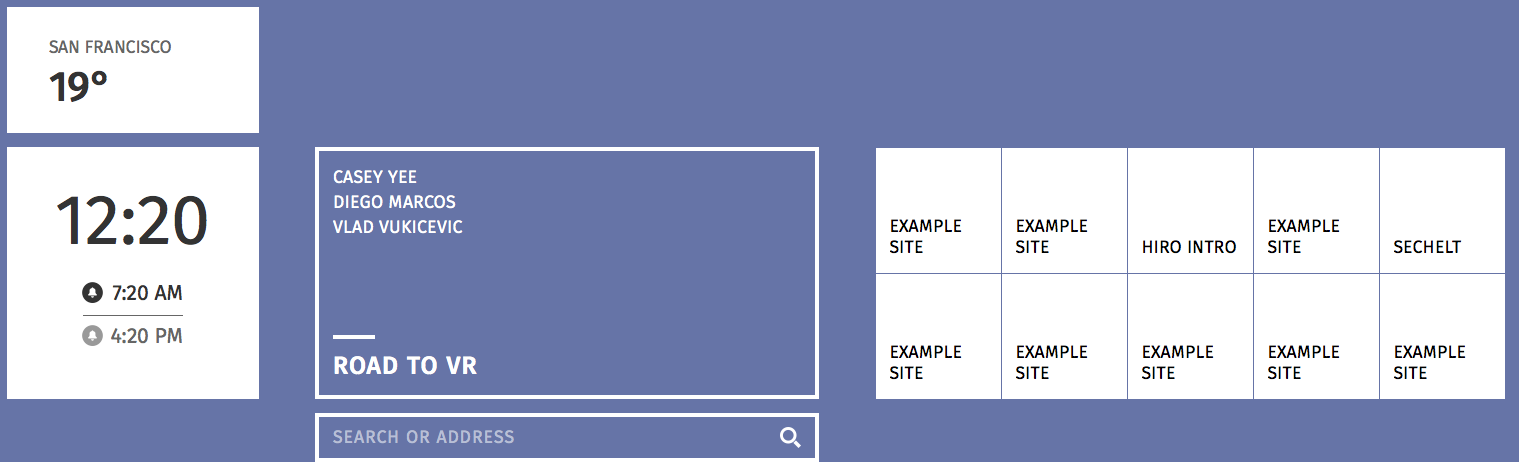
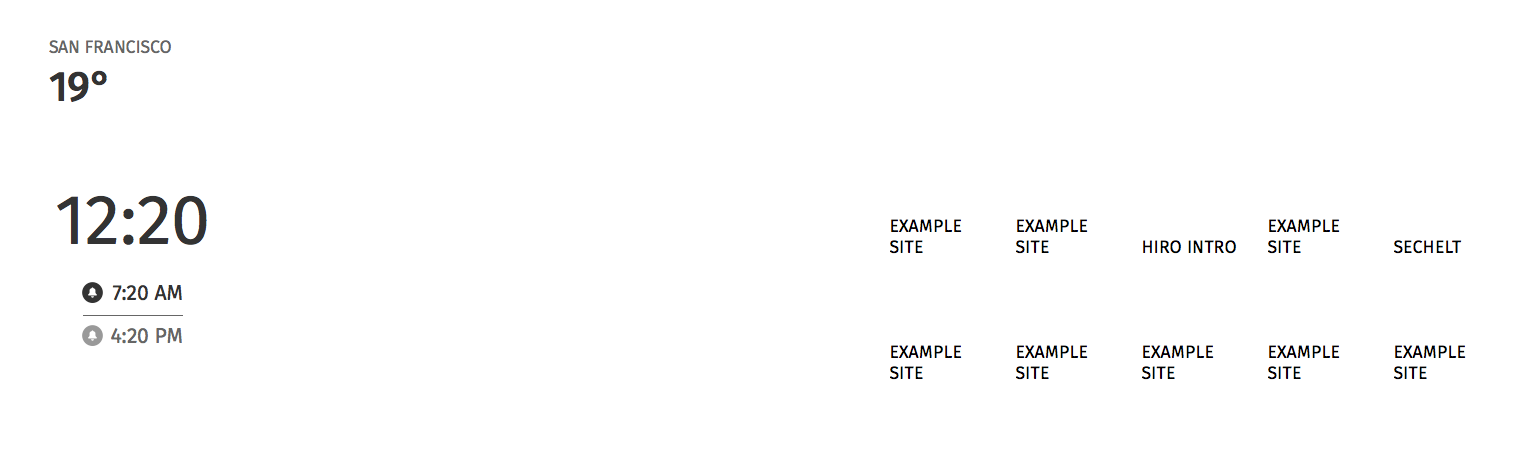
added imagemagick to process alpha

diff --git a/gulpfile.js b/gulpfile.js
@@ -57,8 +57,12 @@ gulp.task('copy', function() {
   	.pipe(gulp.dest(path.base+'build'));
 })
 
-gulp.task('renderd2t',  shell.task([
+gulp.task('slimer',  shell.task([
 	'./renderer/slimerjs-0.9.3/slimerjs ./renderer/script.js '+renderFrom+' '+renderOutTo
+]));
+
+gulp.task('imagemagick', shell.task([
+  './renderer/makealpha.sh'
 ]));
 
 gulp.task('connect', function() {
@@ -69,9 +73,17 @@ gulp.task('connect', function() {
 });
 
 gulp.task('render', function() {
-  gulp.run('connect', 'renderd2t');
-  // give some time to let the renderer do its work before exiting task.
-  setTimeout(function() { process.exit(0) },3000);
+  gulp.run('connect', 'slimer');
+
+  // give some time to let slimer do its work, then run imagemagick
+  setTimeout(function() { 
+    gulp.run('imagemagick') 
+  },2000);
+
+  // give imagemagick some time before quitting.
+  setTimeout(function() { 
+    process.exit(0) 
+  },5000);
 });
 
 gulp.task('default', function() {

diff --git a/renderer/script.js b/renderer/script.js
@@ -41,8 +41,21 @@ page.open(url, function(status) {
 
     fs.write(writePath+'/index.json',JSON.stringify(properties));
     console.log('d23 saved '+writePath+'/index.json');
-    page.render(writePath+'/index.png');
-    console.log('d23 saved '+writePath+'/index.png');
+
+    // write blue component image
+    page.evaluate(function() {
+      document.body.style.background = '#0000FF';      
+    });
+    page.render(writePath+'/index-0000ff.png');
+    console.log('d23 saved '+writePath+'/index-0000ff.png');
+
+    // write yellow component image
+    page.evaluate(function() {
+      document.body.style.background = '#ffff00';      
+    });
+    page.render(writePath+'/index-ffff00.png');
+    console.log('d23 saved '+writePath+'/index-ffff00.png');
+    
    	phantom.exit();
   }, 200);
 });
